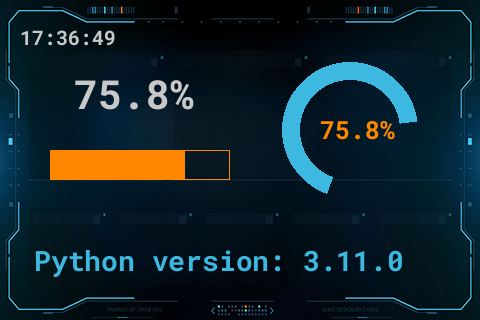
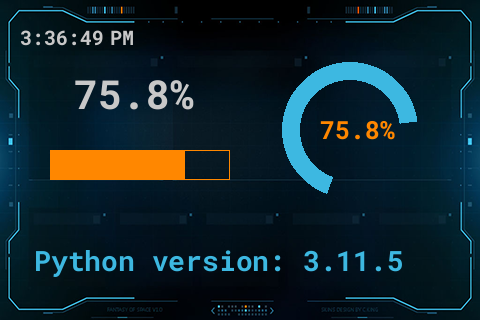
[GitHub Actions Bot] Update theme previews

Changed region(s): [[0.0312, 0.0938, 0.2812, 0.1562], [0.8125, 0.7812, 0.8438, 0.8438]]

diff --git a/res/themes/themes.md b/res/themes/themes.md
@@ -9,7 +9,7 @@
 [5" themes](#5-themes)
 
 ## 3.5" themes
-<table><td>3.5inchTheme2<img src="https://raw.githubusercontent.com/mathoudebine/turing-smart-screen-python/main/res/themes/3.5inchTheme2/preview.png" width="150"/></td><td>bash-dark-green<img src="https://raw.githubusercontent.com/mathoudebine/turing-smart-screen-python/main/res/themes/bash-dark-green/preview.png" width="150"/></td><td>bash-dark-green-gpu<img src="https://raw.githubusercontent.com/mathoudebine/turing-smart-screen-python/main/res/themes/bash-dark-green-gpu/preview.png" width="150"/></td><td>BigClock<img src="https://raw.githubusercontent.com/mathoudebine/turing-smart-screen-python/main/res/themes/BigClock/preview.png" width="150"/></td><td>Cyberpunk<img src="https://raw.githubusercontent.com/mathoudebine/turing-smart-screen-python/main/res/themes/Cyberpunk/preview.png" width="150"/></td></table><table><td>Cyberpunk-net<img src="https://raw.githubusercontent.com/mathoudebine/turing-smart-screen-python/main/res/themes/Cyberpunk-net/preview.png" width="150"/></td><td>Landscape6Grid<img src="https://raw.githubusercontent.com/mathoudebine/turing-smart-screen-python/main/res/themes/Landscape6Grid/preview.png" width="150"/></td><td>LandscapeEarth<img src="https://raw.githubusercontent.com/mathoudebine/turing-smart-screen-python/main/res/themes/LandscapeEarth/preview.png" width="150"/></td><td>LandscapeMagicBlue<img src="https://raw.githubusercontent.com/mathoudebine/turing-smart-screen-python/main/res/themes/LandscapeMagicBlue/preview.png" width="150"/></td><td>Terminal<img src="https://raw.githubusercontent.com/mathoudebine/turing-smart-screen-python/main/res/themes/Terminal/preview.png" width="150"/></td></table><table></table>
+<table><td>3.5inchTheme2<img src="https://raw.githubusercontent.com/mathoudebine/turing-smart-screen-python/main/res/themes/3.5inchTheme2/preview.png" width="150"/></td><td>bash-dark-green<img src="https://raw.githubusercontent.com/mathoudebine/turing-smart-screen-python/main/res/themes/bash-dark-green/preview.png" width="150"/></td><td>bash-dark-green-gpu<img src="https://raw.githubusercontent.com/mathoudebine/turing-smart-screen-python/main/res/themes/bash-dark-green-gpu/preview.png" width="150"/></td><td>BigClock<img src="https://raw.githubusercontent.com/mathoudebine/turing-smart-screen-python/main/res/themes/BigClock/preview.png" width="150"/></td><td>CustomDataExample<img src="https://raw.githubusercontent.com/mathoudebine/turing-smart-screen-python/main/res/themes/CustomDataExample/preview.png" width="150"/></td></table><table><td>Cyberpunk<img src="https://raw.githubusercontent.com/mathoudebine/turing-smart-screen-python/main/res/themes/Cyberpunk/preview.png" width="150"/></td><td>Cyberpunk-net<img src="https://raw.githubusercontent.com/mathoudebine/turing-smart-screen-python/main/res/themes/Cyberpunk-net/preview.png" width="150"/></td><td>Landscape6Grid<img src="https://raw.githubusercontent.com/mathoudebine/turing-smart-screen-python/main/res/themes/Landscape6Grid/preview.png" width="150"/></td><td>LandscapeEarth<img src="https://raw.githubusercontent.com/mathoudebine/turing-smart-screen-python/main/res/themes/LandscapeEarth/preview.png" width="150"/></td><td>LandscapeMagicBlue<img src="https://raw.githubusercontent.com/mathoudebine/turing-smart-screen-python/main/res/themes/LandscapeMagicBlue/preview.png" width="150"/></td></table><table><td>Terminal<img src="https://raw.githubusercontent.com/mathoudebine/turing-smart-screen-python/main/res/themes/Terminal/preview.png" width="150"/></td></table>
 
 ## 5" themes
 <table><td>5inchTheme2<img src="https://raw.githubusercontent.com/mathoudebine/turing-smart-screen-python/main/res/themes/5inchTheme2/preview.png" width="150"/></td><td>5inchTheme2Radial<img src="https://raw.githubusercontent.com/mathoudebine/turing-smart-screen-python/main/res/themes/5inchTheme2Radial/preview.png" width="150"/></td><td>CyanTheme<img src="https://raw.githubusercontent.com/mathoudebine/turing-smart-screen-python/main/res/themes/CyanTheme/preview.png" width="150"/></td><td>DragonBall5inch<img src="https://raw.githubusercontent.com/mathoudebine/turing-smart-screen-python/main/res/themes/DragonBall5inch/preview.png" width="150"/></td><td>Landscape15Grid<img src="https://raw.githubusercontent.com/mathoudebine/turing-smart-screen-python/main/res/themes/Landscape15Grid/preview.png" width="150"/></td></table><table><td>NZXT_B<img src="https://raw.githubusercontent.com/mathoudebine/turing-smart-screen-python/main/res/themes/NZXT_B/preview.png" width="150"/></td><td>NZXT_BLUR<img src="https://raw.githubusercontent.com/mathoudebine/turing-smart-screen-python/main/res/themes/NZXT_BLUR/preview.png" width="150"/></td><td>NZXT_C<img src="https://raw.githubusercontent.com/mathoudebine/turing-smart-screen-python/main/res/themes/NZXT_C/preview.png" width="150"/></td><td>NZXT_color<img src="https://raw.githubusercontent.com/mathoudebine/turing-smart-screen-python/main/res/themes/NZXT_color/preview.png" width="150"/></td><td>NZXT_dynamic<img src="https://raw.githubusercontent.com/mathoudebine/turing-smart-screen-python/main/res/themes/NZXT_dynamic/preview.png" width="150"/></td></table><table><td>PurpleTheme<img src="https://raw.githubusercontent.com/mathoudebine/turing-smart-screen-python/main/res/themes/PurpleTheme/preview.png" width="150"/></td></table>
